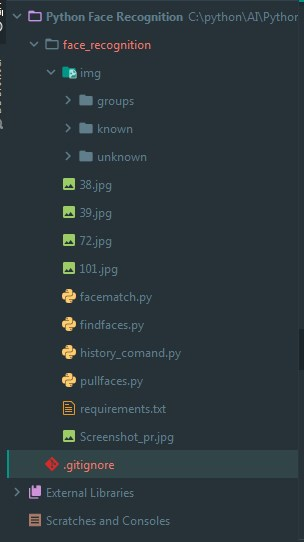
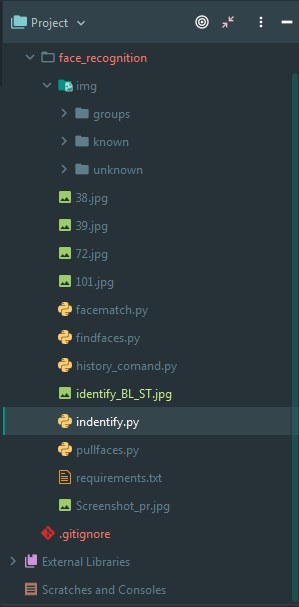
Find faces in test image + draw rectangle

diff --git a/indentify.py b/indentify.py
@@ -1,0 +1,59 @@
+import face_recognition
+from PIL import Image, ImageDraw
+
+image_of_bill = face_recognition.load_image_file('./img/known/Bill Gates.jpg')
+bill_face_encoding = face_recognition.face_encodings(image_of_bill)[0]
+
+image_of_steve = face_recognition.load_image_file('./img/known/Steve Jobs.jpg')
+steve_face_encoding = face_recognition.face_encodings(image_of_steve)[0]
+
+# Create array of encoding and names
+known_face_encodings = [
+    bill_face_encoding,
+    steve_face_encoding
+]
+
+known_face_names = [
+    "Bill Gates",
+    "Steve Jobs"
+]
+
+# Load test image to find faces in
+test_image = face_recognition.load_image_file('./img/groups/bill-steve.jpg')
+
+# Find faces in test image
+face_locations = face_recognition.face_locations(test_image)
+face_encodings = face_recognition.face_encodings(test_image, face_locations)
+
+# Convert to PIL format
+pil_image = Image.fromarray(test_image)
+
+# Create a ImageDraw instance
+draw = ImageDraw.Draw(pil_image)
+
+# Loop through faces in test image
+for(top, right, bottom, left), face_encoding in zip(face_locations, face_encodings):
+    matches = face_recognition.compare_faces(known_face_encodings, face_encoding)
+
+    name = "Unknown Person"
+
+    # If match
+    if True in matches:
+        first_match_index = matches.index(True)
+        name = known_face_names[first_match_index]
+
+    # Draw Box
+    draw.rectangle(((left, top),(right, bottom)), outline=(0,0,0))
+
+    # Draw Label
+    text_width, text_height = draw.textsize(name)
+    draw.rectangle(((left, bottom - text_height - 10), (right, bottom)), fill=(0, 0, 0), outline=(0, 0, 0))
+    draw.text((left + 6, bottom - text_height - 5), name, fill=(255,255,255,255))
+
+del draw
+
+# Display image
+pil_image.show()
+
+# Save image
+pil_image.save('identify.jpg')
